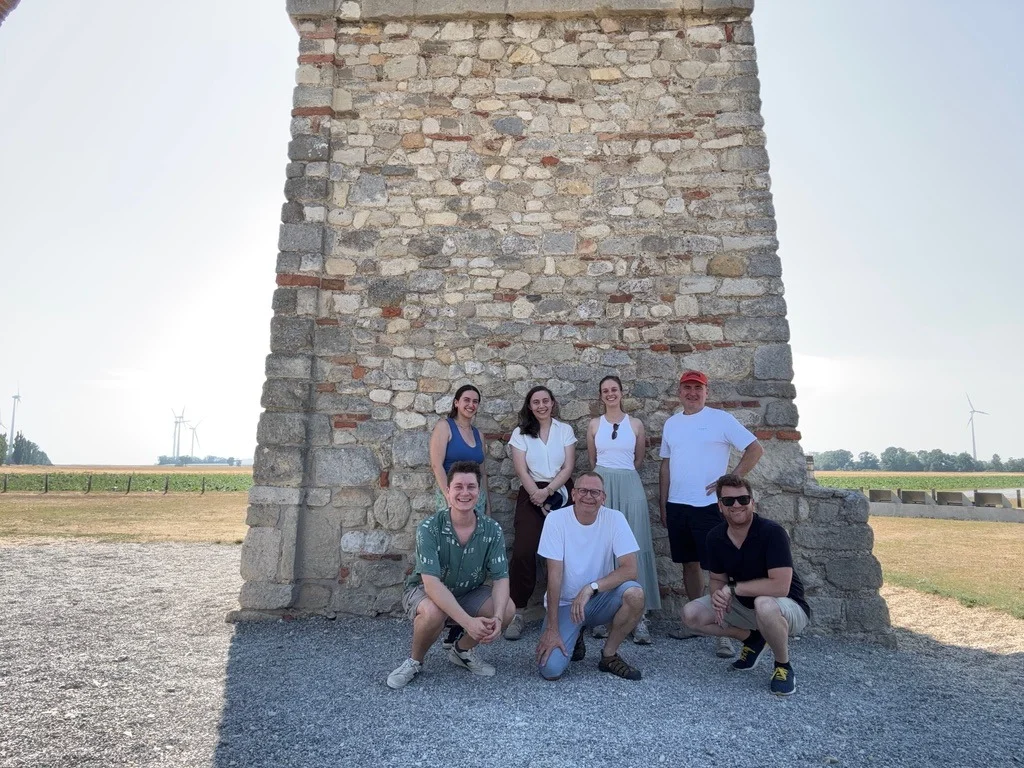
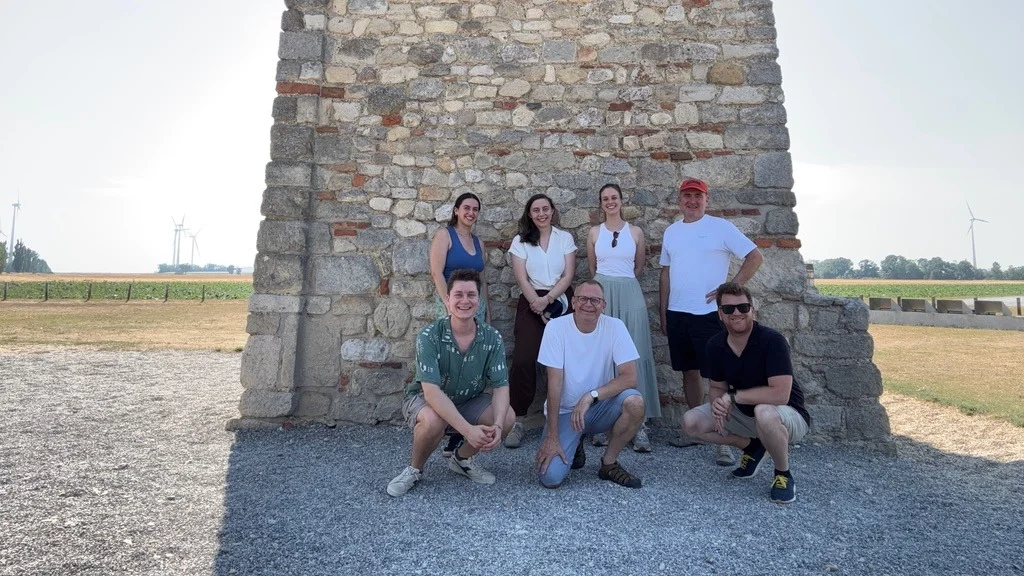
Update Volunteer titles to Volunteer 2026 and sync site updates

diff --git a/index.html b/index.html
@@ -164,6 +164,21 @@
 <h3>First Data Release</h3>
 <p>We are currently preparing the first batch of digitised archaeological drawings for public release.</p>
 </div>
+<div class="card reveal" style="padding: 0; border-bottom: 4px solid var(--terracotta); display: flex; flex-direction: column;">
+<div class="card-image-wrapper" style="position: relative; overflow: hidden; display: block; line-height: 0;">
+<img alt="LEGION team at the Heidentor during the excursion to Carnuntum" height="225" loading="lazy" src="assets/news_carnuntum.webp" style="width: 100%; aspect-ratio: 16/9; object-fit: cover; object-position: center; border-bottom: 1px solid rgba(255, 255, 255, 0.05); display: block;" width="400"/>
+<div class="photocredit-tooltip">LEGION / OeAW</div>
+</div>
+<div style="padding: 2.5rem; flex: 1;">
+<p style="color: var(--terracotta); font-size: 0.8rem; font-weight: 700; text-transform: uppercase; letter-spacing: 0.1em; margin-bottom: 0.5rem;">10 July 2026</p>
+<h3>Excursion: LEGION @ Carnuntum</h3>
+<p>The LEGION project team went on a field trip to Roman City Carnuntum and visited the Archaeological Central Depot at Kulturfabrik Hainburg (Lower Austrian State Collections), exploring ancient urban structures and extensive artifact repositories essential for our common ware pottery research.</p>
+<div style="margin-top: 1rem; display: flex; gap: 1rem; flex-wrap: wrap;">
+<a href="https://www.carnuntum.at/en" rel="noopener" style="color: var(--terracotta); text-decoration: none; font-size: 0.9rem; font-weight: 600;" target="_blank">Roman City Carnuntum →</a>
+<a href="https://www.landessammlungen-noe.at/" rel="noopener" style="color: var(--terracotta); text-decoration: none; font-size: 0.9rem; font-weight: 600;" target="_blank">Landessammlungen NÖ →</a>
+</div>
+</div>
+</div>
 <div class="card reveal" style="padding: 0; border-bottom: 4px solid var(--cyan); display: flex; flex-direction: column;">
 <div class="card-image-wrapper" style="position: relative; overflow: hidden; display: block; line-height: 0;">
 <img alt="E-RIHS.at Logo" height="225" loading="lazy" src="assets/news_erihs.webp" style="width: 100%; aspect-ratio: 16/9; object-fit: contain; background: #ffffff; padding: 1.5rem; border-bottom: 1px solid rgba(255, 255, 255, 0.05); display: block;" width="400"/>
@@ -421,13 +436,13 @@
 <div class="researcher-entry">
 <div class="researcher-info">
 <span class="researcher-name">Rebekka Lederhofer</span>
-<span class="researcher-meta">Volunteer</span>
+<span class="researcher-meta">Volunteer 2026</span>
 </div>
 </div>
 <div class="researcher-entry">
 <div class="researcher-info">
 <span class="researcher-name">Antonia Schmid</span>
-<span class="researcher-meta">Volunteer</span>
+<span class="researcher-meta">Volunteer 2026</span>
 </div>
 </div>
 </div>
